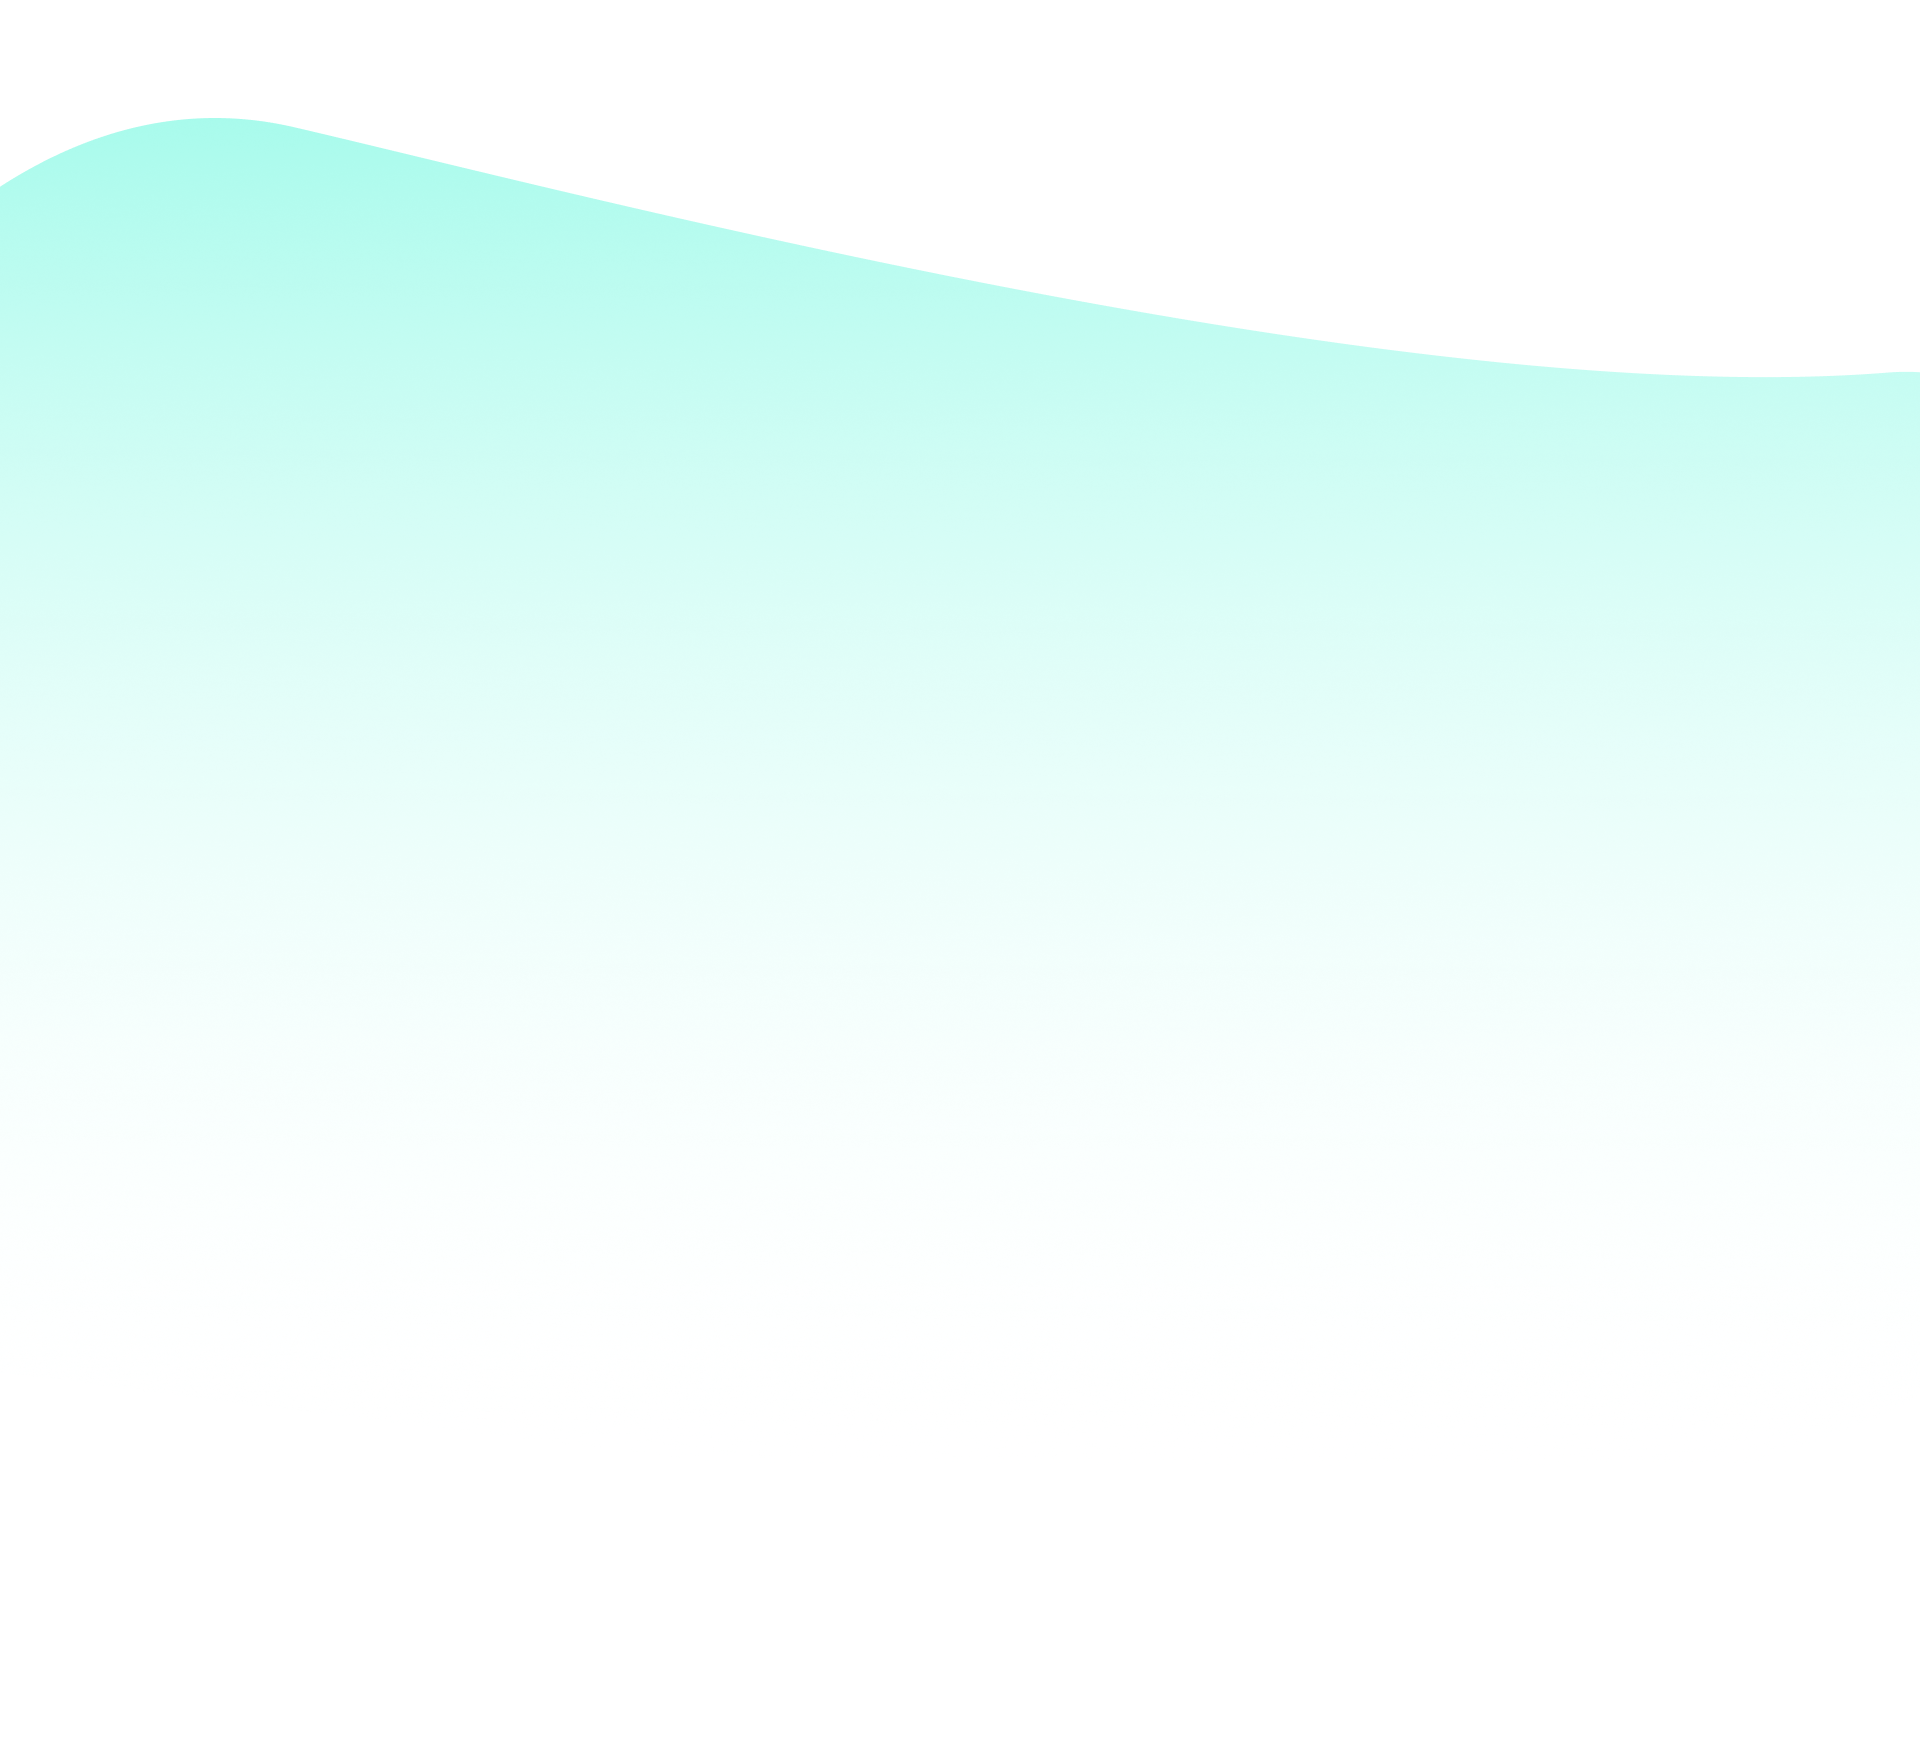
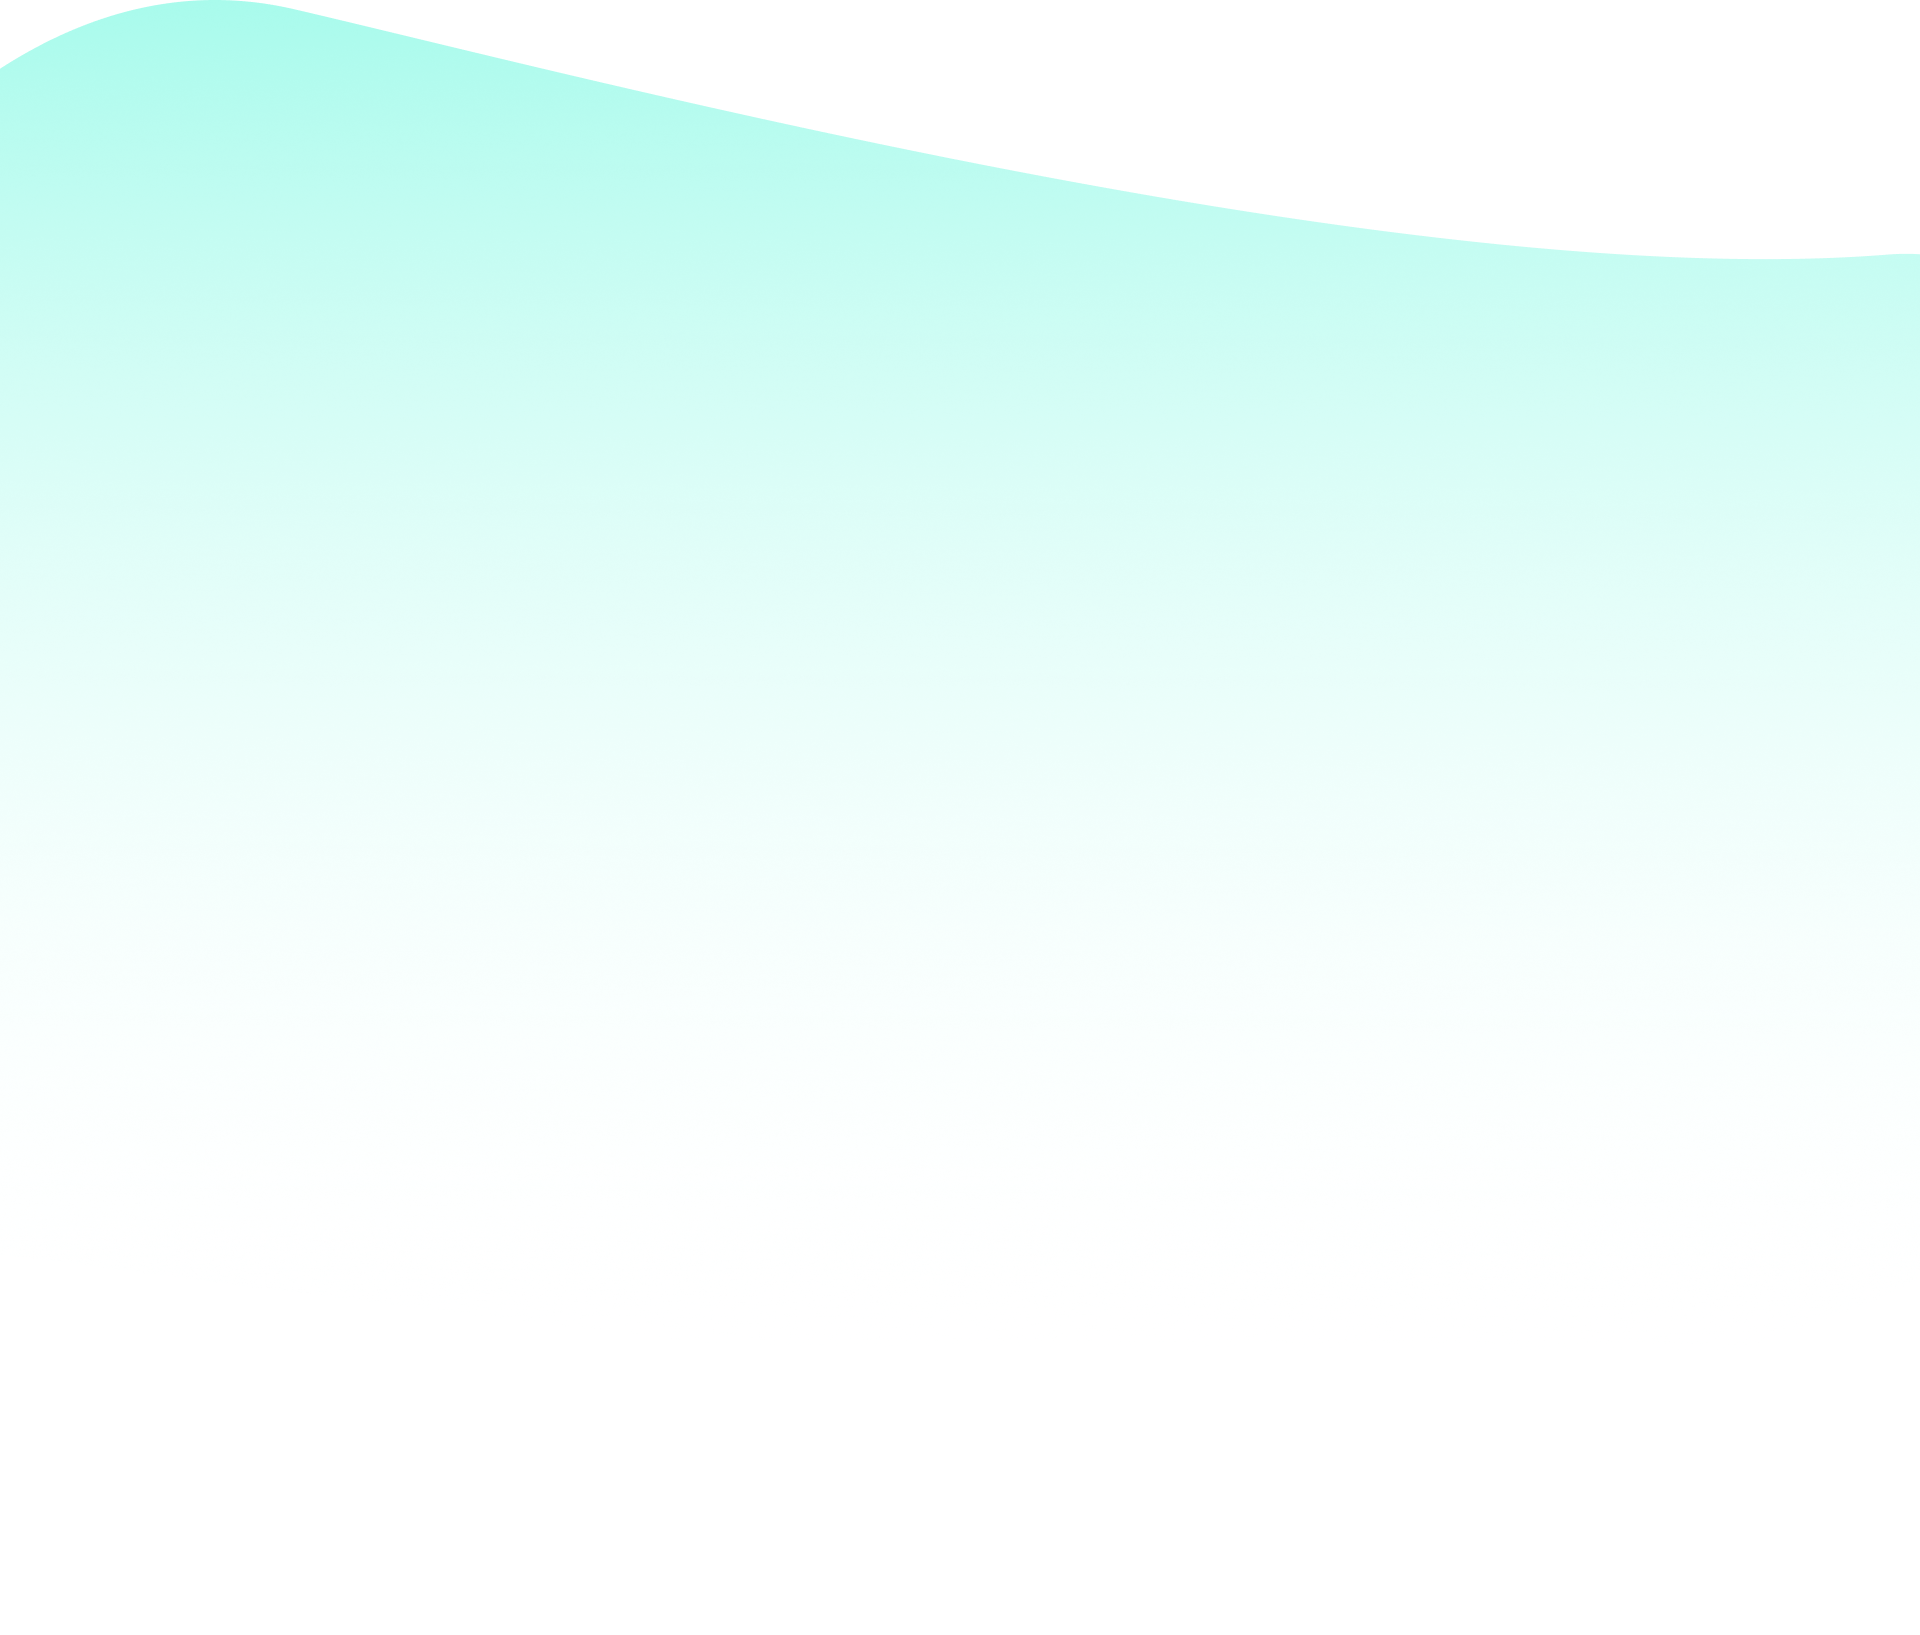
format page with new styles

Changed region(s): [[0.0, 0.0, 1.0, 0.2183]]

diff --git a/index.html b/index.html
@@ -27,39 +27,49 @@
                 <p>I’m a qualified counsellor with over 7 years of experience. I offer short and long-term talking therapy for adults online or by telephone. I am a registered member of the British Association for Counselling and Psychotherapy (BACP) and work within their ethical framework.</p>
                 <p>I believe that every client is unique and that it is the quality of the relationship that is at the heart of successful therapy. Choosing a therapist is an important decision to make and it is easier to talk to someone that you trust and feel at ease with. It has been shown that change is much more likely to occur in a therapeutic relationship that feels safe, non-judgmental, and genuine.</p>
                 <p>To help you decide if I would be the right person for you, I offer a free 15-30 minute phone consultation, with no obligation and I’m happy to answer any questions.</p>
-                <button class="btn-primary">Find out more</button>
-                <button class="btn-secondary">Get in touch</button>
+                <a href="#treatment-approach"><button class="btn-primary">Find out more</button></a>
+                <a href="#contact"><button class="btn-secondary" >Get in touch</button></a>
             </div>
             <img src="static/imgs/Website image 2.png" alt="Rachel Coombes Profile" class="profile-image">
         </div>
-        <div class="treatment-approach" id="treatment-approach">
-            <img src="static/imgs/girl_on_computer.jpg" alt="Woman Video call on Laptop">
-            <div>
-                <h1>Treatment approach</h1>
-                <p>
-                I trained in the Integrative approach to counselling and psychotherapy which brings together different elements of specific therapies. I take the view that there is no single approach that can treat each client in all situations but rather, each person should be considered as a whole, using counselling techniques tailored to each individuals need and personal circumstances. 
-                </p>
-                <p>
-                 My counselling experience is varied with a diverse range of people and issues, including working with clients experiencing relationship problems, addictions, bereavement, and common mental health issues such as anxiety disorders and depression. I also have experience of counselling groups of people with emotional eating issues as well as a number of years working with those affected by gambling addiction.
-                </p>
+        <div class="treatment-approach">
+            <img src="static/imgs/wave_shape.png" style="position: absolute; z-index: -3;"  alt="">
+            <div style="display: flex; padding-top: 25rem;">
+                <img src="static/imgs/girl_on_computer.jpg" class="girl-img" alt="Woman Video call on Laptop">
+                <div style="width: 35%;"  id="treatment-approach">
+                    <h1>Treatment approach</h1>
+                    <p>
+                    I trained in the Integrative approach to counselling and psychotherapy which brings together different elements of specific therapies. I take the view that there is no single approach that can treat each client in all situations but rather, each person should be considered as a whole, using counselling techniques tailored to each individuals need and personal circumstances. 
+                    </p>
+                    <p>
+                     My counselling experience is varied with a diverse range of people and issues, including working with clients experiencing relationship problems, addictions, bereavement, and common mental health issues such as anxiety disorders and depression. I also have experience of counselling groups of people with emotional eating issues as well as a number of years working with those affected by gambling addiction.
+                    </p>
+                </div>
             </div>
         </div>
         <div class="modalities">
-            <h1>I draw on a variety of modalities including...</h1>
+            <img src="static/imgs/wave_shape_02.png" style="position: absolute; z-index: -2;" alt="">
+            <h3>I draw on a variety of modalities including...</h3>
             <div class="modailites-grid">
                 <img src="static/imgs/ICON_Integrative.png" alt="" srcset="">
                 <img src="static/imgs/ICON_Person_centered.png" alt="" srcset="">
                 <img src="static/imgs/ICON_cognitive.png" alt="" srcset="">
+                <p>Integrative</p>
+                <p>Person Centered</p>
+                <p>Cognitive Behavioural Therapy(CBT)</p>
                 <img src="static/imgs/ICON_Gestalt_therapy.png" alt="" srcset="">
                 <img src="static/imgs/ICON_Solution_focused_brief.png" alt="" srcset="">
                 <img src="static/imgs/ICON_transactional.png" alt="" srcset="">
+                <p>Gestalt Therapy</p>
+                <p>Solution Focused Brief Therapy</p>
+                <p>Transactional analysis</p>
             </div>
         </div>
         <div class="specialites" id="specialites">
-            <h1>Specialities</h1>
-            <div style="display: flex; justify-content: center;">
-                <h3>Addictions</h3>
-                <h3>Anxiety</h3>
+            <h1 style="text-align: center;">Specialities</h1>
+            <div style="display: flex; justify-content: center; margin-bottom: 1rem;">
+                <h3 style="margin-right: 2rem;">Addictions</h3>
+                <h3 style="margin-right: 2rem;">Anxiety</h3>
                 <h3>Self Esteem</h3>
             </div>
             <div style="display: flex; justify-content: center;">
@@ -102,17 +112,20 @@
                 </ul>
             </div>
         </div>
-        <div style="display: flex;" id="expect">
-            <div>
-                <h1>What to Expect</h1>
-                <p>Our first free initial telephone consultation is quite informal and lasts approximately 15 – 30 minutes. This will be a chance for us to discuss your needs and reasons for counselling, as well as your expectations and what you would like to achieve from our sessions together including any goals you may have. </p>
-                <p>Once you have decided to go ahead with the therapy sessions we will arrange to meet on a regular day and time for 50 minutes either online or by telephone. I would usually advise weekly sessions to begin with as through my own experience and many years of research generally in the field of psychology it has been shown that the consistency of weekly sessions can give us better results. 
-                </p>
-                <p>
-                    That said, it is also completely your decision on how many sessions you require and how often. We will regularly look at where you are both in terms of your original reason for coming and in light of any other concerns that may have emerged. This will provide the flexibility for you to ensure you have the number of therapy sessions to fit your needs. 
-                </p>
+        <div id="expect">
+            <img src="static/imgs/wave_shape.png"  class="wte-wave"  alt="">
+            <div style="display: flex;">
+                <div>
+                    <h1>What to Expect</h1>
+                    <p>Our first free initial telephone consultation is quite informal and lasts approximately 15 – 30 minutes. This will be a chance for us to discuss your needs and reasons for counselling, as well as your expectations and what you would like to achieve from our sessions together including any goals you may have. </p>
+                    <p>Once you have decided to go ahead with the therapy sessions we will arrange to meet on a regular day and time for 50 minutes either online or by telephone. I would usually advise weekly sessions to begin with as through my own experience and many years of research generally in the field of psychology it has been shown that the consistency of weekly sessions can give us better results. 
+                    </p>
+                    <p>
+                        That said, it is also completely your decision on how many sessions you require and how often. We will regularly look at where you are both in terms of your original reason for coming and in light of any other concerns that may have emerged. This will provide the flexibility for you to ensure you have the number of therapy sessions to fit your needs. 
+                    </p>
+                </div>
+                <img src="static/imgs/man_on_computer.jpg" alt="man using laptop" srcset="" class="laptop-img">
             </div>
-            <img src="static/imgs/man_on_computer.jpg" alt="man using laptop" srcset="" class="laptop-img">
         </div>
         <div style="display: flex; justify-content: center;">
             <div>
@@ -136,7 +149,7 @@
             </div>
         </div>
         <div>
-            <h1>Pricing</h1>
+            <h1 style="text-align: center;"  id="booking">Pricing</h1>
             <div style="display: flex; justify-content: center">
                 <div class="price-box">
                     <h4>Initial Phone Consultation</h4>
@@ -150,15 +163,15 @@
                 </div>
             </div>
         </div>
-        <div class="booking" id="booking">
+        <div class="booking">
             <div>
-                <h1>Booking Availability</h1>
+                <h1 style="text-align: center;">Booking Availability</h1>
                 <p>Please see my booking availability to arrange an initial free consultation. If there is anything further you need to ask me regarding appointments and how I might help you, please email me and I will get back to you as soon as possible.
                 </p>
             </div>
             <div></div>
         </div>
-        <div class="contact" id="contact">
+        <div style="text-align: center;" id="contact">
             <h1>contact</h1>
             <p>If there is anything else, you would like to know please just ask me. I will endeavour to get back to you asap and within 24 hours of your initial contact.
             </p>

diff --git a/static/main.css b/static/main.css
@@ -8,6 +8,17 @@ html{
     --primary-col: #51F6D9;
     --font-main: #343434;
 }
+p{
+    font-weight: 400;
+}
+
+h1{
+    font-weight: 500;
+}
+
+h3{
+    font-weight: 400;
+}
 
 
 body{
@@ -109,8 +120,7 @@ body{
 .content{
     margin-right: auto;
     margin-left: auto;
-    padding-left:3rem;
-    padding-right: 3rem;
+    
 }
 
 .wave-image{
@@ -124,16 +134,18 @@ body{
 }
 
 .treatment-approach{
-    display: flex;
-    margin: 0;
+    margin-bottom: 10rem;
+   
 }
 
-.treatment-approach img{
-    width: 45%;
+
+.girl-img{
+    width: 50%;
     height: auto;
-    margin-right: 3rem;
+    margin-right: 7.5rem;
     border-radius: 25px;
 }
+
 
 .laptop-img{
     width: 45%;
@@ -148,5 +160,15 @@ ul li::marker{
 .modailites-grid{
     display: grid;
     grid-template-columns: 20rem 20rem 20rem;
+    justify-items: center;
     justify-content: center;
+    align-items: center;
+    margin-bottom: 15rem;
+}
+
+.wte-wave{
+    -webkit-transform: scaleX(-1);
+    transform: scaleX(-1);
+    position: absolute; 
+    z-index: -3;
 }
